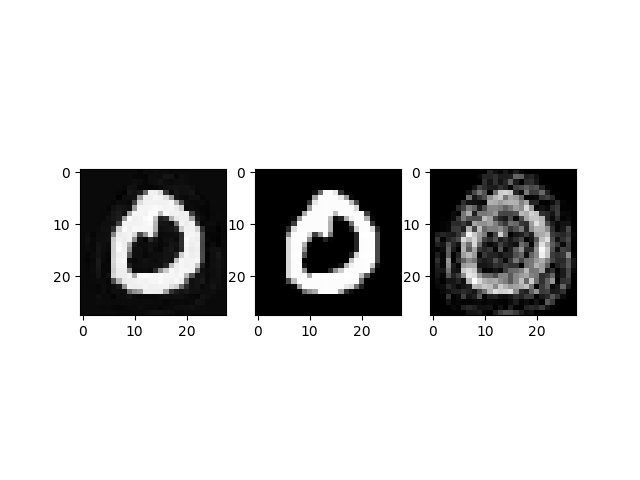
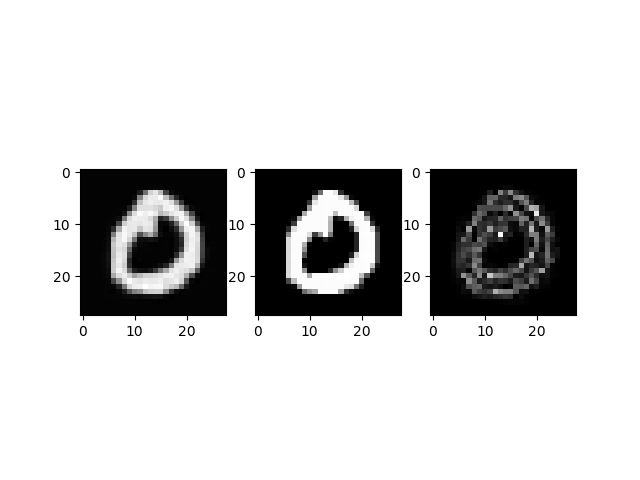
Commit

Changed region(s): [[0.6562, 0.3438, 0.9062, 0.6562], [0.1562, 0.375, 0.3125, 0.625]]

diff --git a/conv_fista.py b/conv_fista.py
@@ -29,15 +29,27 @@ def J(X,D,A):
     Z = get_conv(A,D)-X;
     return 0.5*np.mean(np.power(Z,2));
 
+def dJdA(X,D,A):
+    return get_corr(get_conv(A,D)-X,D)/X.size;
+
+def dJdD(X,D,A):
+    return get_corr(get_conv(A,D)-X,A)/X.size;
+
 def F(X,D,A,lam):
     return J(X,D,A)+lam*np.mean(np.abs(A));
 
-def P(X,D,A,lam,dt):
-    Y = A-dt*get_corr(get_conv(A,D)-X,D)/X.size;
-    Z = np.abs(Y)-dt*lam/Y.size;
+def prox(Y,eta):
+    Z = np.abs(Y)-eta/Y.size;
     Z = Z * (Z > 0);
     return Z*np.sign(Y);
 
+def root(lt,the,t):
+    if lt == 0.0:
+        return 1.0;
+    else:
+        tlt = t / lt;
+        det = np.sqrt(tlt*the*the+0.25*tlt*the*the*the*the);
+        return max(-0.5*tlt*the*the+det,-0.5*tlt*the*the-det);
 class learner:
     def __init__(self,X,L,K,lam):
         self.X = X;
@@ -47,64 +59,75 @@ class learner:
         
         self.lam = lam;
         
-        self.D  = rd.randn(L,K,K);
+        self.D  = np.ones((L,K,K))+0.1*rd.randn(L,K,K);
         for l in range(self.L):
-            self.D[l] /= np.maximum(1.0,np.linalg.norm(self.D[l]));
-
-        self.mD = np.zeros((L,K,K));
-        self.nD = np.zeros((L,K,K));
+            self.D[l] -= np.mean(self.D[l]);
+            self.D[l] /= np.linalg.norm(self.D[l])+1e-1;
+        self.dD = np.zeros(self.D.shape);
 
         self.it = 0;
-        self.IT = 10;
+        self.IT = 5;
     
     
     def step_A(self,x,it):
-        A = get_corr(x,self.D);
-        A += 0.05*rd.randn(A.shape[0],A.shape[1],A.shape[2])/A.size;
-        Al = A;
-        A_ = A;
+        X = get_corr(x,self.D);
+        V = np.copy(X);
+        X += 0.001*rd.randn(X.shape[0],X.shape[1],X.shape[2]);
+        V += 0.001*rd.randn(X.shape[0],X.shape[1],X.shape[2]);
+
         t = 0;
-        eta = 0.0;
-        c = 0.5;
-        k = 0.5;
-        a0 = 1.0;
-        while t < 200:
-            Al = A;
-            
-            
-            dJdA = get_corr(get_conv(A_,self.D)-x,self.D)/x.size
-            m = c*np.sum(dJdA*(dJdA+self.lam*np.sign(A_)/A_.size));
-            dt = a0;
-            FA_ = F(x,self.D,A_,self.lam);
-
-            i = 0;
-            while i < 10:
-                i += 1;
-                if FA_ >= F(x,self.D,P(x,self.D,A_,self.lam,dt),self.lam)+dt*m:
-                    break;
-                dt *= k;
-            A = P(x,self.D,A_,self.lam,dt);
-            f = F(x,self.D,A,self.lam);
-            print it,t,f,dt;
-
-            eta_n = (1.0+np.sqrt(1.0 + 4.0*eta*eta))/2.0;
-            mu = (1.0-eta)/eta_n;
-            A_ = (1.0-mu)*A+mu*Al;
-            eta = eta_n;
-            t += 1;
         
-        f = F(x,self.D,A,self.lam);
-        return A,f;
+        dt = 100.0;
+        the =  0.5;
+        while t < 50:
+            
+            
+            #line search
+            d = 10.0;
+            the_n = root(dt,the,d);
+            
+            Y = (1-the_n)*X+the_n*V;
+            jY = J(x,self.D,Y);
+            dJdY = dJdA(x,self.D,Y);
+            U = prox(Y-d*dJdY,d*self.lam);
+            jU = J(x,self.D,X);
+            tt = 0;
+            
+            while jU > jY + np.sum(dJdY*(U-Y)) + 0.5*np.sum(np.power(U-Y,2.0))/d:
+                d *= 0.5;
+                the_n = root(dt,the,d);
+                
+                Y = (1-the_n)*X+the_n*V;
+                jY = J(x,self.D,Y);
+                dJdY = dJdA(x,self.D,Y);
+                U = prox(Y-d*dJdY,d*self.lam);
+                jU = J(x,self.D,U);
+                tt += 1;
+                if tt > 10:
+                    break;
+            
+            dt = d;
+            the = the_n;
+            X_n = U if F(x,self.D,U,self.lam) <= F(x,self.D,X,self.lam) else X;
+            V   = X + (U-X)/the;
+            X   = np.copy(X_n);
+            
+            print it, t, dt, the, J(x,self.D,X), F(x,self.D,X,self.lam);
+            t+=1;
+            
+        f = F(x,self.D,X,self.lam);
+        return X,f;
     
     def step_D(self,dt,iit):
-        dD = np.zeros(self.D.shape);
         for i in range(self.X.shape[0]):
             x = self.X[i];
             A,f = self.step_A(x,(iit,i));
             print iit,i,f;
-            dD = get_corr(get_conv(A,self.D)-x,A)/(x.size*self.IT);
-            self.D -= dt*dD;
-            for l in range(self.L):
-                self.D[l] /= np.maximum(1.0,np.linalg.norm(self.D[l]));
-            #self.it += 1;
-        
+            self.dD += get_corr(get_conv(A,self.D)-x,A)/(self.IT);
+            self.it += 1;
+            if self.it % self.IT == 0:
+                self.D -= dt*self.dD;                
+                for l in range(self.L):
+                    #self.D[l] -= np.mean(self.D[l]);
+                    self.D[l] /= np.linalg.norm(self.D[l])+1e-1;
+                self.dD.fill(0.0);

diff --git a/main.py b/main.py
@@ -17,34 +17,57 @@ from conv_fista import *;
 
 a = scio.loadmat("mnist_all.mat");
 
-D = 2;
+D = 10;
 I = 10;
 X = np.zeros((D*I,28,28));
 for i in range(I):
     for b in range(D):
-        X[D*i+b] = -0.5+a['train'+str(b)][i,:].reshape((28,28))/255.0;
+        X[D*i+b] = a['train'+str(b)][i,:].reshape((28,28))/255.0;
 
-L = 20;
-K = 7;
+L = 10;
+K = 5;
 d = 10.0;
 test = learner(X,L*L,K,d);
 
+D = 1.0*test.D;
 it = 0;
-while it < 10:
+while it < 4:
     print "Iteration: "+str(it);
-    test.step_D(5e-1,it);
+    test.step_D(1.0,it);
     it += 1;
+aux = np.abs(D-test.D);
 
 f,axarr = plt.subplots(L,L);
 for k in range(L):
     for l in range(L):
+        axarr[k,l].imshow(aux[L*k+l],cmap='gray');
+        #axarr[k,l].imshow(test.D[L*k+l,:,:],cmap='gray');
+        axarr[k,l].set_xticklabels([]);
+        axarr[k,l].set_yticklabels([]);
+        axarr[k,l].grid(False)
+plt.show()
+
+f,axarr = plt.subplots(L,L);
+for k in range(L):
+    for l in range(L):
+        axarr[k,l].imshow(D[L*k+l],cmap='gray');
+        #axarr[k,l].imshow(test.D[L*k+l,:,:],cmap='gray');
+        axarr[k,l].set_xticklabels([]);
+        axarr[k,l].set_yticklabels([]);
+        axarr[k,l].grid(False)
+plt.show()
+
+f,axarr = plt.subplots(L,L);
+for k in range(L):
+    for l in range(L):
+        #axarr[k,l].imshow(aux[L*k+l],cmap='gray');
         axarr[k,l].imshow(test.D[L*k+l,:,:],cmap='gray');
         axarr[k,l].set_xticklabels([]);
         axarr[k,l].set_yticklabels([]);
         axarr[k,l].grid(False)
 plt.show()
 
-x = a['test1'][100,:].reshape((28,28))/255.0;
+x = a['test6'][100,:].reshape((28,28))/255.0;
 A,f = test.step_A(x,0);
 print f;
 
@@ -61,7 +84,7 @@ s = np.zeros((x.shape[0],x.shape[1]));
 f,axarr = plt.subplots(L,L);
 for k in range(L):
     for l in range(L):
-        s += conv2d(A[L*k+l,:,:],test.D[L*k+l,:,:],'full');
+        s = conv2d(A[L*k+l,:,:],test.D[L*k+l,:,:],'full');
         axarr[k,l].imshow(s,cmap='gray');
         axarr[k,l].set_xticklabels([]);
         axarr[k,l].set_yticklabels([]);

diff --git a/README.md b/README.md
@@ -10,12 +10,8 @@ And their effects on a test element a 0:
 
 ![image](H_for_0.png)
 
-![image](partial_sums_0.png)
-
-and a 1:
-
-![image](H_for_1.png)
-
-![image](partial_sums_1.png)
+![image](approx_0.png)
 
 Maybe I'll find a better scheme for the dictionary.
+
+Update: a line search, and a batch update were added.
